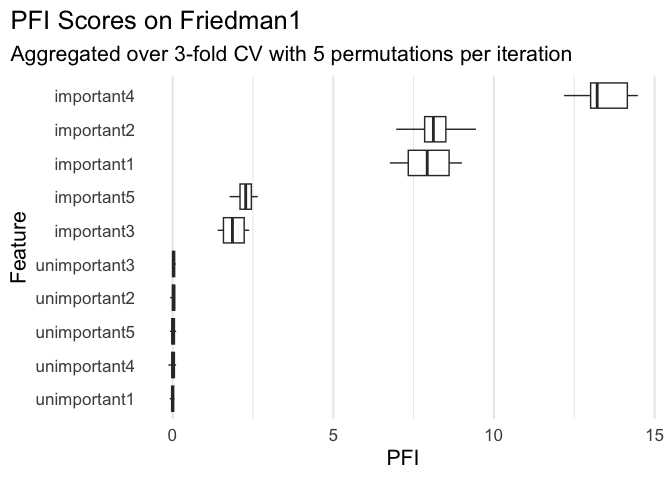
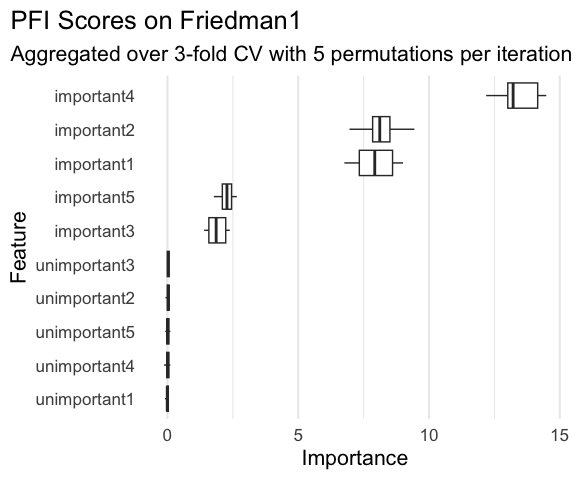
README, misc

diff --git a/README.md b/README.md
@@ -115,7 +115,7 @@ ggplot(pfi$scores, aes(x = importance, y = reorder(feature, importance))) +
   labs(
     title = "PFI Scores on Friedman1",
     subtitle = "Aggregated over 3-fold CV with 5 permutations per iteration",
-    x = "PFI",
+    x = "Importance",
     y = "Feature"
   ) +
   theme_minimal(base_size = 16) +
@@ -126,3 +126,34 @@ ggplot(pfi$scores, aes(x = importance, y = reorder(feature, importance))) +
 ```
 
 <img src="man/figures/README-pfi-plot-1.png" width="100%" />
+
+If the measure in question needs to be maximized ratehr than minimized
+(like $R^2$), the internal importance calculation takes that into
+account via the `$minimize` property of the measure object and
+calculates importances such that the “performance improvement” -\>
+higher importance score holds:
+
+``` r
+pfi = PFI$new(
+  task = task,
+  learner = learner,
+  measure = msr("regr.rsq"),
+  iters_perm = 1
+)
+#> ℹ No <Resampling> provided, using holdout resampling with default ratio.
+
+pfi$compute()
+#> Key: <feature>
+#>          feature    importance
+#>           <char>         <num>
+#>  1:   important1  0.2461477003
+#>  2:   important2  0.3354065147
+#>  3:   important3  0.0534960678
+#>  4:   important4  0.5744520955
+#>  5:   important5  0.1116336289
+#>  6: unimportant1 -0.0016660726
+#>  7: unimportant2 -0.0031085541
+#>  8: unimportant3 -0.0002086101
+#>  9: unimportant4  0.0037567083
+#> 10: unimportant5 -0.0022176601
+```
